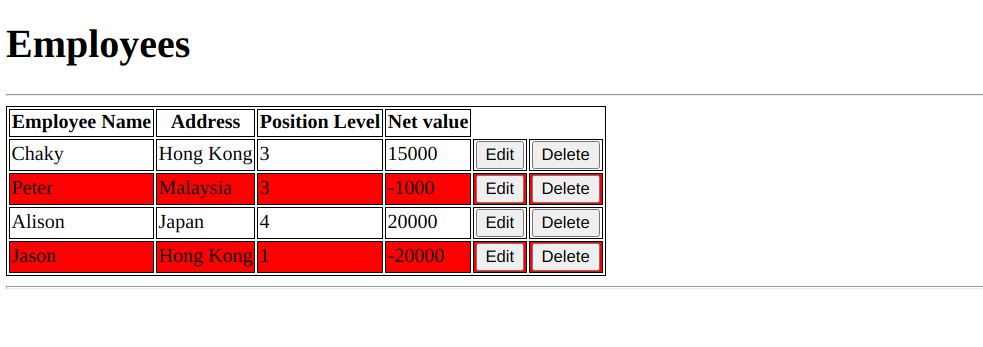
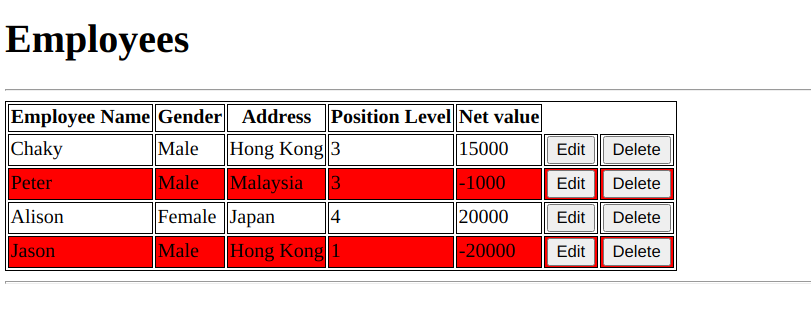
Add gender to home page list and add more ss and info to readme of lab 1 assignment

Changed region(s): [[0.0, 0.2571, 1.0, 0.9143], [0.0, 0.0571, 0.2466, 0.2]]

diff --git a/Lab1/hr/src/main/java/com/example/hr/models/Employee.java b/Lab1/hr/src/main/java/com/example/hr/models/Employee.java
@@ -85,4 +85,12 @@ public class Employee {
                 + ", salary=" + salary + ", value=" + value + "]";
     }
 
+    public Gender getGender() {
+        return gender;
+    }
+
+    public void setGender(Gender gender) {
+        this.gender = gender;
+    }
+
 }

diff --git a/Lab1/hr/README.md b/Lab1/hr/README.md
@@ -6,6 +6,28 @@ This system uses JSTL and the associated dependencies are added through the Mave
 
 ## Usage
 
+The various features are outlined below and demonstrated via screenshots.
+
 ### Recordkeeping
 
-![Record](docs/image.jpg)
+![Record](docs/lab1a-record.png)
+
+All employees are listed on the homepage. Underperforming employees are marked in red.
+
+## Deletion
+
+![Record](docs/lab1a-delete.png)
+
+Employee records can be deleted in one click via the delete button. Each button is associated with its respective row (employee).
+
+## Editing
+
+![Record](docs/lab1a-edit.png)
+
+Once the edit button is clicked, you will be taken to the edit form.
+
+![Record](docs/lab1a-edit2.png)
+
+Fill out the relevant details of the employee you want to change. Use the ID to select the specific employee.
+
+**Note**: I have not figured out how to map each button to a specific employee so the form is general i.e. it works for all employees and must be **filled out completely**.
